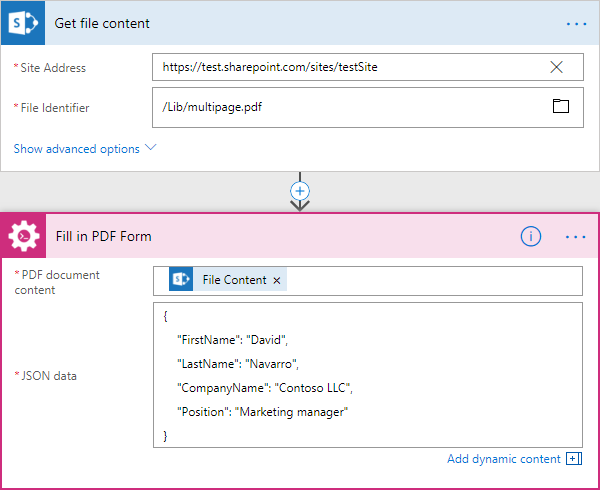
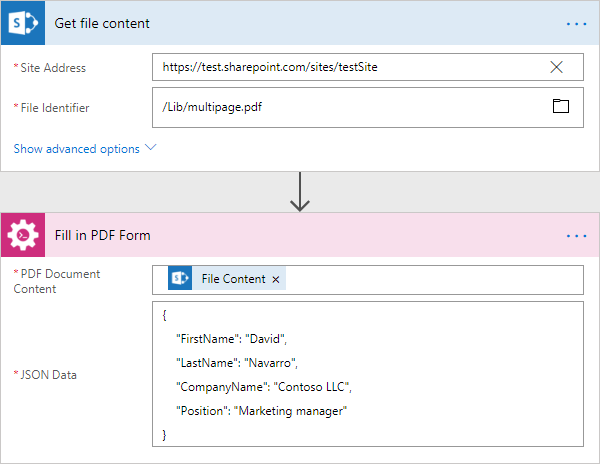
Fix screenshots for PDF actions

diff --git a/source/flow/actions/document-processing.rst b/source/flow/actions/document-processing.rst
@@ -407,7 +407,7 @@ Merge PDF document with the help of Microsoft Flow.
     *  -  Parameter
        -  Description
        -  Example
-    *  -  PDF documents content
+    *  -  PDF Documents Content
        -  The array of raw content of PDF documents.       
 
        -  You may get the content of the source PDF file by "Get file content" action from "SharePoint" connector or from some other connector.
@@ -730,27 +730,27 @@ Protects PDF by adding passwords, copy-, printing-, and other protections to PDF
 
        -  You may get the content of the source PDF file by "Get file content" action from "SharePoint" connector or from some other connector.
 
-    *  -  Enable printing
+    *  -  Enable Printing
        -  Protect the PDF file from being printed out.
        -  Yes    
 
-    *  -  Enable modification
+    *  -  Enable Modification
        -  Protect the PDF file from being edited.
        -  Yes     
 
-    *  -  Enable extract data
+    *  -  Enable Extract Data
        -  Allows extraction of text, images, and other media from the PDF file.
        -  Yes     
 
-    *  -  Enable annotate
+    *  -  Enable Annotate
        -  Allows annotation (e.g. comments, form fill-in, signing) of the PDF file.
        -  Yes     
 
-    *  -  PDF owner password
+    *  -  PDF Owner Password
        -  Enter an optional owner password here. This password can be used to disable document restrictions.
        -  OwNEr_PAs$word     
 
-    *  -  PDF user password
+    *  -  PDF User Password
        -  Enter an optional user password here. Each time an user opens the PDF he will be asked for this password. If you do not want a password prompt then leave this field blank.
        -  U$er_PAs$word  
 

diff --git a/source/general/licensing-details.rst b/source/general/licensing-details.rst
@@ -10,7 +10,7 @@ There are three plans available:
 - **Whale** - includes 50 000 monthly credits
 
 What are credits?
-----------------
+---------------------
 
 In 95% cases 1 call to Actions is 1 credit. 
 
@@ -19,18 +19,18 @@ Each 0.5 Mb generated by a single call to `Plumsail Documents connector <../flow
 1 call to `Plumsail SP connector <../flow/actions/sharepoint-processing.html>`_ is always **1 credit**.
 
 What happens when credits are spent?
------------------------------------
+--------------------------------------
 
 When you will get close to spent 70% of your monthly credits, we will send you a notification about it. Thus, you will have enough time to purchase `additional 1000 credits <https://secure.avangate.com/order/product.php?PRODS=4724468&QTY=1&ORDERSTYLE=nLWonJWpmHI=&SHOPURL=https%3A%2F%2Fplumsail.com%2Factions%2Fstore%2F>`_ or pay a differential cost to `start using another plan <upgrade-renew.html>`_. 
 
 The credits amount will be reset at 1st day in a month according to your current plan. 
 
 Trial license
--------------
+--------------
 
 Likely you start using Plumsail Actions with a trial. The trial version gives you an opportunity to try our product on "Orca" plan. The trial period lasts for 30 days. If you choose not to purchase the license, the product will stop working.
 
 End-User Software License Agreement
------------------------------------
+------------------------------------
 
 `End-User Software License Agreement <https://plumsail.com/license-agreement/>`_
